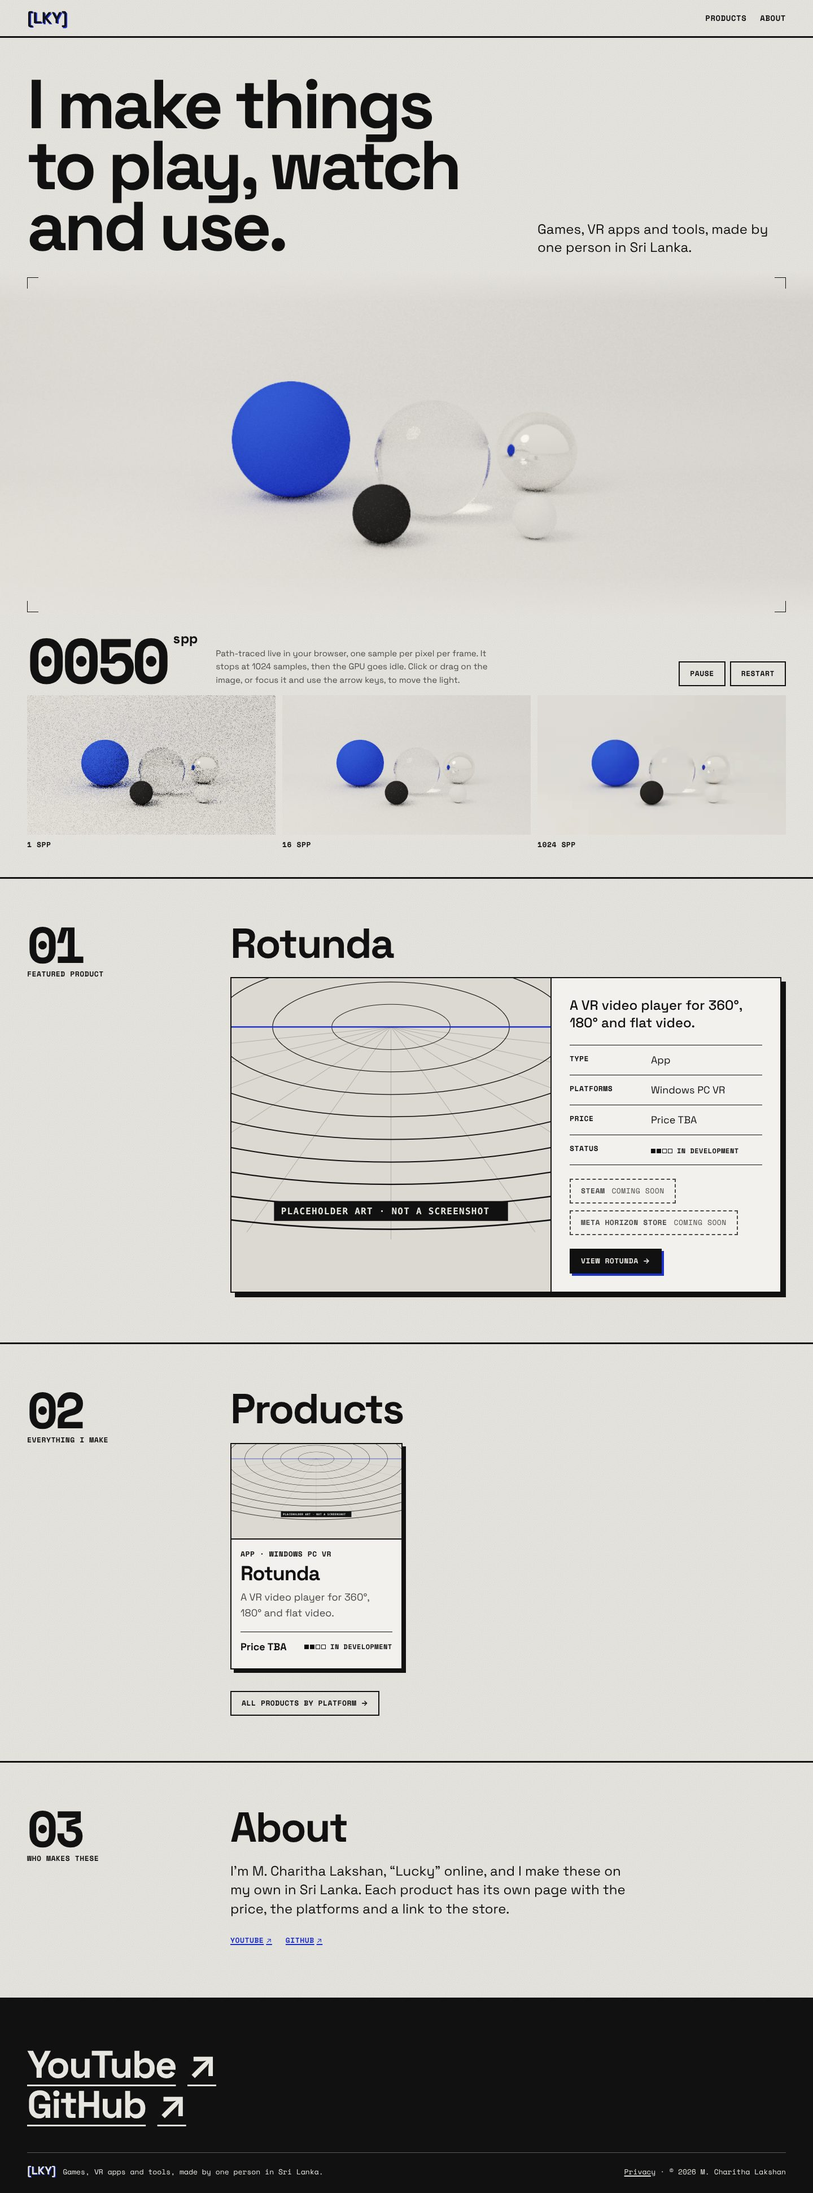
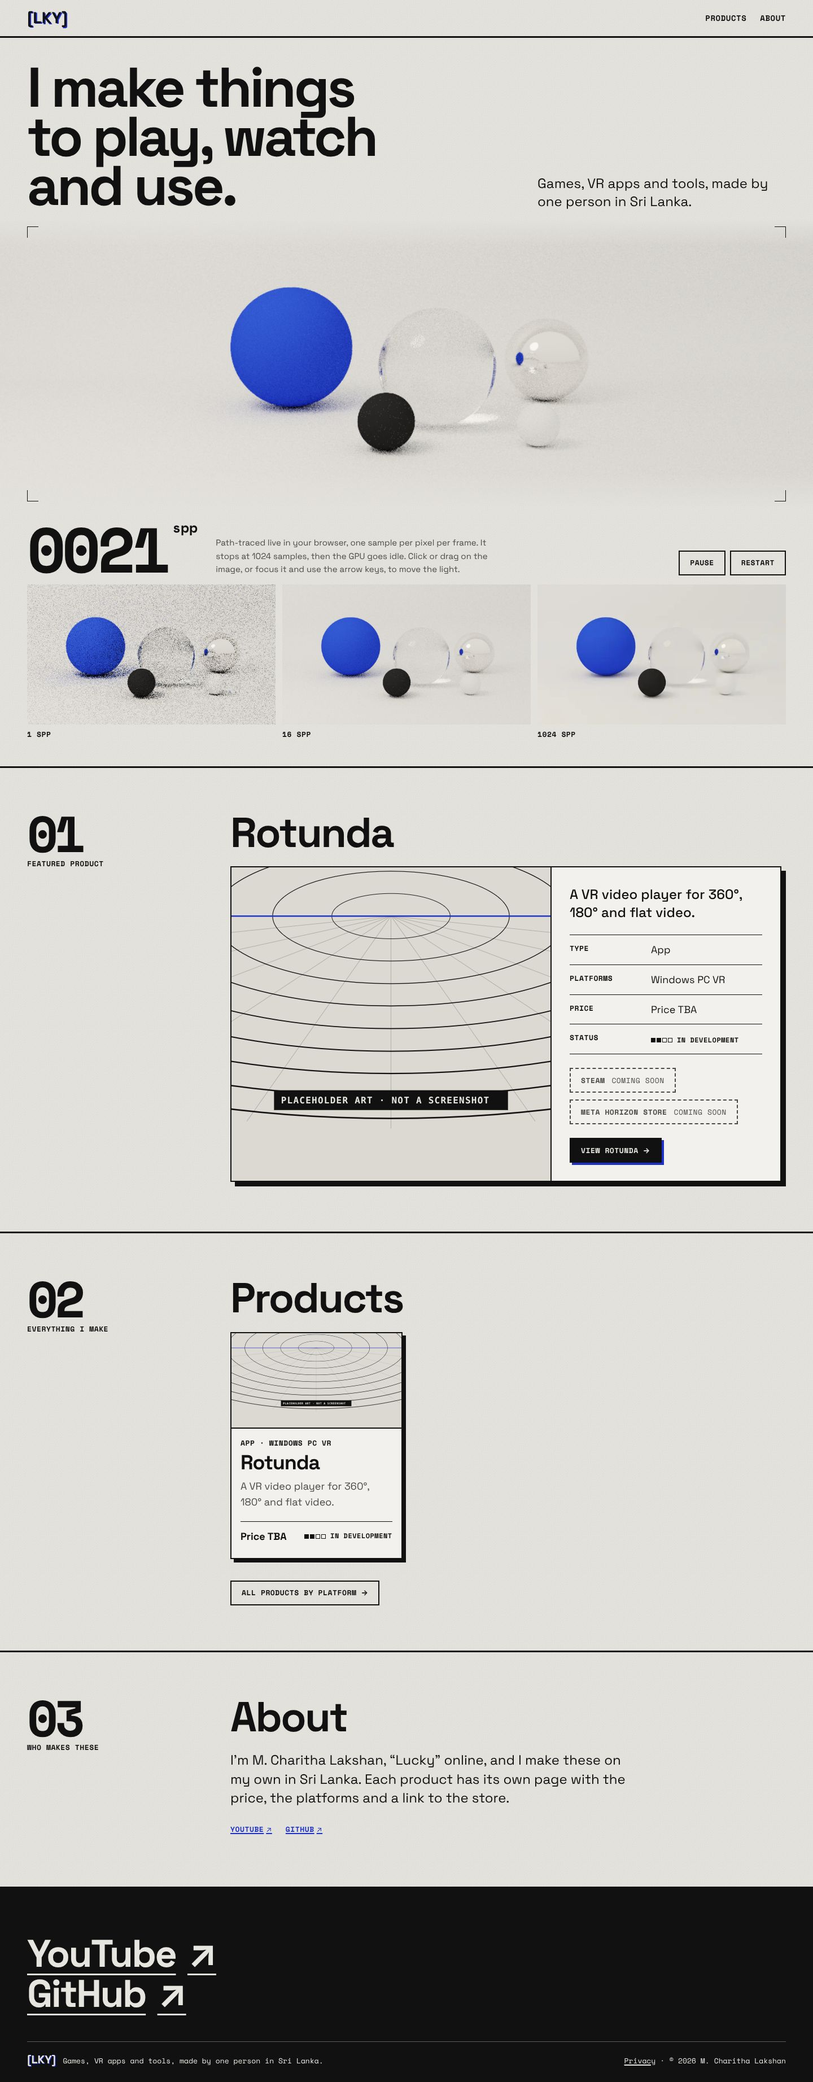
Fix: hero cropped on desktop (#3)
* fix: fit the home hero on the first screen on desktop

Size the hero from the viewport height (svh grid + subgrid), cap the
headline at 11svh, and frame the scene for any plate aspect with a
FOV and lens-shift fit. The wide still uses the same framing via
container units, so the live render takes over without a jump.

Claude-Session: https://claude.ai/code/session_01M5ZXwnCxA9Bamq5gUkcNpd

* docs: hero framing, render sizes and session notes

Claude-Session: https://claude.ai/code/session_01M5ZXwnCxA9Bamq5gUkcNpd

* chore: re-render hero strip frames at 16:9 with the new framing

Claude-Session: https://claude.ai/code/session_01M5ZXwnCxA9Bamq5gUkcNpd

* chore: re-render wide hero still and social image with the new framing; refresh home screenshots

Claude-Session: https://claude.ai/code/session_01M5ZXwnCxA9Bamq5gUkcNpd

---------

diff --git a/src/scripts/path-tracer.ts b/src/scripts/path-tracer.ts
@@ -9,6 +9,14 @@
  * live hero and its fallback always match.
  */
 
+export const SPHERES: readonly (readonly [number, number, number, number])[] = [
+  [-1.15, 0.58, -0.55, 0.58], // matte cobalt
+  [0.22, 0.5, 0.25, 0.5], // glass
+  [1.38, 0.42, -0.85, 0.42], // chrome
+  [-0.18, 0.21, 1.05, 0.21], // matte black
+  [0.95, 0.16, 0.95, 0.16], // matte white
+];
+
 const VS = `#version 300 es
 void main() {
   vec2 p = vec2(float((gl_VertexID << 1) & 2), float(gl_VertexID & 2));
@@ -22,7 +30,9 @@ uniform vec2 uRes;
 uniform int uFrame;
 uniform vec3 uLight;
 uniform vec3 uCam;
-uniform float uFov;
+uniform vec3 uTarget;
+uniform float uHalf;
+uniform vec2 uShift;
 out vec4 o;
 
 const float PI = 3.14159265;
@@ -30,13 +40,8 @@ uint st;
 uint pcg() { st = st * 747796405u + 2891336453u; uint w = ((st >> ((st >> 28u) + 4u)) ^ st) * 277803737u; return (w >> 22u) ^ w; }
 float rnd() { return float(pcg()) / 4294967296.0; }
 
-const int NS = 5;
-const vec4 SPH[NS] = vec4[NS](
-  vec4(-1.15, 0.58, -0.55, 0.58),   // matte cobalt
-  vec4( 0.22, 0.50,  0.25, 0.50),   // glass
-  vec4( 1.38, 0.42, -0.85, 0.42),   // chrome
-  vec4(-0.18, 0.21,  1.05, 0.21),   // matte black
-  vec4( 0.95, 0.16,  0.95, 0.16));  // matte white
+const int NS = ${SPHERES.length};
+const vec4 SPH[NS] = vec4[NS](${SPHERES.map((s) => `vec4(${s.map((v) => v.toFixed(2)).join(', ')})`).join(', ')});
 const float LR = 1.1;
 const vec3 LE = vec3(9.0, 8.6, 8.0);
 
@@ -117,9 +122,10 @@ vec3 trace(vec3 ro, vec3 rd) {
 void main() {
   st = uint(gl_FragCoord.x) * 1973u + uint(gl_FragCoord.y) * 9277u + uint(uFrame) * 26699u | 1u; pcg();
   vec2 jit = vec2(rnd(), rnd());
-  vec2 uv = (gl_FragCoord.xy - 0.5 + jit - 0.5 * uRes) / uRes.y;
-  vec3 ta = vec3(0.0, 0.55, -0.35), ww = normalize(ta - uCam), uu = normalize(cross(ww, vec3(0, 1, 0))), vv = cross(uu, ww);
-  vec3 rd = normalize(uu * uv.x + vv * uv.y + ww * (1.0 / tan(uFov * 0.5) * 0.5));
+  // Image plane at distance 1: uHalf is the half-height, uShift the lens shift (both in tangent units).
+  vec2 uv = (gl_FragCoord.xy - 0.5 + jit - 0.5 * uRes) / uRes.y * 2.0 * uHalf + uShift;
+  vec3 ww = normalize(uTarget - uCam), uu = normalize(cross(ww, vec3(0, 1, 0))), vv = cross(uu, ww);
+  vec3 rd = normalize(uu * uv.x + vv * uv.y + ww);
   vec3 c = trace(uCam, rd);
   vec3 prev = texelFetch(uPrev, ivec2(gl_FragCoord.xy), 0).rgb;
   o = vec4(mix(prev, c, 1.0 / float(uFrame + 1)), 1.0);
@@ -139,12 +145,77 @@ void main() {
 
 export const DEFAULT_LIGHT: [number, number, number] = [-2.6, 4.4, 2.2];
 
-/** Camera framing per aspect ratio, so the spheres fit on phones and wide screens alike. */
-export function cameraFor(aspect: number): { pos: [number, number, number]; fov: number } {
-  if (aspect < 1.2) return { pos: [0, 1.5, 7.2], fov: 0.7 };
-  if (aspect < 2) return { pos: [0, 1.3, 6.0], fov: 0.62 };
-  return { pos: [0, 1.15, 4.9], fov: 0.62 };
+type Vec3 = [number, number, number];
+
+export interface View {
+  eye: Vec3;
+  target: Vec3;
+  /** Half-height of the image plane at distance 1 (tan of half the vertical field of view). */
+  half: number;
+  /** Lens shift in the same units: moves the frame without changing the perspective. */
+  shift: [number, number];
 }
+
+const EYE: Vec3 = [0, 1.25, 5.6];
+const TARGET: Vec3 = [0, 0.45, -0.2];
+/** Share of the frame the spheres may fill, so they stay clear of the soft top and bottom edges. */
+const SAFE = { x: 0.88, y: 0.66 };
+/** Each sphere is padded by this factor so its contact shadow stays in frame too. */
+const PAD = 1.3;
+
+const sub = (a: Vec3, b: Vec3): Vec3 => [a[0] - b[0], a[1] - b[1], a[2] - b[2]];
+const dot = (a: Vec3, b: Vec3) => a[0] * b[0] + a[1] * b[1] + a[2] * b[2];
+const cross = (a: Vec3, b: Vec3): Vec3 => [a[1] * b[2] - a[2] * b[1], a[2] * b[0] - a[0] * b[2], a[0] * b[1] - a[1] * b[0]];
+const norm = (a: Vec3): Vec3 => {
+  const l = Math.hypot(...a);
+  return [a[0] / l, a[1] / l, a[2] / l];
+};
+
+/**
+ * The box the padded spheres project to on the image plane of the fixed camera (tangent units):
+ * centre (cx, cy) and half-size (hx, hy). Each sphere's silhouette is bounded exactly per axis.
+ */
+function sceneBox() {
+  const ww = norm(sub(TARGET, EYE)), uu = norm(cross(ww, [0, 1, 0])), vv = cross(uu, ww);
+  let x0 = Infinity, x1 = -Infinity, y0 = Infinity, y1 = -Infinity;
+  for (const [x, y, z, r] of SPHERES) {
+    const d = sub([x, y, z], EYE), r2 = r * PAD;
+    const cz = dot(d, ww);
+    for (const [c, axis] of [[dot(d, uu), 0], [dot(d, vv), 1]] as const) {
+      const a = Math.atan2(c, cz), s = Math.asin(r2 / Math.hypot(c, cz));
+      const lo = Math.tan(a - s), hi = Math.tan(a + s);
+      if (axis === 0) (x0 = Math.min(x0, lo)), (x1 = Math.max(x1, hi));
+      else (y0 = Math.min(y0, lo)), (y1 = Math.max(y1, hi));
+    }
+  }
+  return { cx: (x0 + x1) / 2, cy: (y0 + y1) / 2, hx: (x1 - x0) / 2, hy: (y1 - y0) / 2 };
+}
+
+export const SCENE_BOX = sceneBox();
+
+/**
+ * Framing for a frame of the given aspect ratio (width / height). From 1:1 up, the fixed camera
+ * zooms (field of view) and shifts its lens so every sphere and its shadow fits in the safe area,
+ * whatever the shape of the frame. Any such view is an exact crop of any other, so a still rendered
+ * at STILL can be scaled with CSS to match the live render (see PathTracer.astro).
+ * Portrait frames (phones) keep their original, fixed framing.
+ */
+export function viewFor(aspect: number): View {
+  if (aspect < 1) return { eye: [0, 1.5, 7.2], target: [0, 0.55, -0.35], half: Math.tan(0.35), shift: [0, 0] };
+  const { cx, cy, hx, hy } = SCENE_BOX;
+  return { eye: EYE, target: TARGET, half: Math.max(hy / SAFE.y, hx / (SAFE.x * aspect)), shift: [cx, cy] };
+}
+
+/**
+ * The wide still: rendered at STILL.aspect with half-height STILL.half, so it still covers the frame
+ * for every aspect from 1.2 to 4.2. CSS sets its height to min(kh × frame height, kw × frame width).
+ */
+export const STILL = (() => {
+  const { hx, hy } = SCENE_BOX;
+  const half = Math.max(hy / SAFE.y, hx / (SAFE.x * 1.2));
+  const aspect = (4.2 * hy) / SAFE.y / half;
+  return { aspect, half, kh: (half * SAFE.y) / hy, kw: (half * SAFE.x) / hx };
+})();
 
 interface Target {
   tex: WebGLTexture;
@@ -165,7 +236,7 @@ export class PathTracer {
   private vao: WebGLVertexArrayObject;
   private targets: Target[] = [];
   private cur = 0;
-  private cam = cameraFor(16 / 9);
+  private view = viewFor(16 / 9);
   private u: Record<string, WebGLUniformLocation | null> = {};
 
   /** Returns null when WebGL2 or float render targets are missing, or a shader fails. */
@@ -209,7 +280,7 @@ export class PathTracer {
     };
     this.trace = link(TRACE);
     this.show = link(SHOW);
-    for (const n of ['uPrev', 'uRes', 'uFrame', 'uLight', 'uCam', 'uFov']) this.u[n] = gl.getUniformLocation(this.trace, n);
+    for (const n of ['uPrev', 'uRes', 'uFrame', 'uLight', 'uCam', 'uTarget', 'uHalf', 'uShift']) this.u[n] = gl.getUniformLocation(this.trace, n);
     this.u.uAcc = gl.getUniformLocation(this.show, 'uAcc');
     this.vao = gl.createVertexArray()!;
   }
@@ -222,7 +293,7 @@ export class PathTracer {
     const gl = this.gl;
     this.width = this.canvas.width = w;
     this.height = this.canvas.height = h;
-    this.cam = cameraFor(w / h);
+    this.view = viewFor(w / h);
     for (const t of this.targets) {
       gl.deleteTexture(t.tex);
       gl.deleteFramebuffer(t.fbo);
@@ -243,6 +314,12 @@ export class PathTracer {
     return true;
   }
 
+  /** Overrides the framing chosen by resize() (the offline still renderer uses STILL). */
+  setView(view: View) {
+    this.view = view;
+    this.reset();
+  }
+
   reset() {
     this.spp = 0;
   }
@@ -261,8 +338,10 @@ export class PathTracer {
     gl.uniform2f(this.u.uRes!, this.width, this.height);
     gl.uniform1i(this.u.uFrame!, this.spp);
     gl.uniform3fv(this.u.uLight!, this.light);
-    gl.uniform3fv(this.u.uCam!, this.cam.pos);
-    gl.uniform1f(this.u.uFov!, this.cam.fov);
+    gl.uniform3fv(this.u.uCam!, this.view.eye);
+    gl.uniform3fv(this.u.uTarget!, this.view.target);
+    gl.uniform1f(this.u.uHalf!, this.view.half);
+    gl.uniform2fv(this.u.uShift!, this.view.shift);
     gl.drawArrays(gl.TRIANGLES, 0, 3);
     this.cur = 1 - this.cur;
     this.spp++;

diff --git a/src/scripts/path-tracer-hero.ts b/src/scripts/path-tracer-hero.ts
@@ -104,7 +104,7 @@ export function mountPathTracer(root: HTMLElement) {
       if (!ctx) return;
       const s = Math.max(tile.width / canvas.width, tile.height / canvas.height);
       const w = canvas.width * s, h = canvas.height * s;
-      ctx.drawImage(canvas, (tile.width - w) / 2, (tile.height - h) * 0.6, w, h);
+      ctx.drawImage(canvas, (tile.width - w) / 2, (tile.height - h) / 2, w, h);
       tile.hidden = false;
     }
 

diff --git a/Docs/Design/DesignSystem.md b/Docs/Design/DesignSystem.md
@@ -64,7 +64,7 @@ Paper text on the ink footer: 15.0:1.
 
 - Space scale `--space-1` … `--space-9`: 4, 8, 12, 16, 24, 32, 48, 64, 96 px.
 - `--gutter`: clamp(16px, 3.5vw, 48px). `--max-width`: 90rem.
-- Breakpoints (in media queries): 40rem (hero 16:9), 56rem (rail grid, hero text split, readout row), 64rem (hero 21:9, storefront two-column, featured card two-column).
+- Breakpoints (in media queries): 40rem (hero fills the first screen on landscape, else 16:9), 56rem (rail grid, hero text split, readout row), 64rem (hero 21:9, storefront two-column, featured card two-column).
 - `--rule`: 1px ink (table rows). `--rule-thick`: 3px ink (between page sections, under the header).
 - `--shadow-print`: `4px 4px 0` cobalt (primary buttons). Hover: `6px 6px 0` plus a −2px nudge.
 - `--shadow-card`: `6px 6px 0` ink (product cards; the featured card uses 8px). Hover: `8px 8px 0` cobalt plus a −2px nudge.
@@ -116,18 +116,19 @@ All components live in `src/components/`.
   - Scene: a white studio cove (floor, curved fillet, wall) with a matte cobalt, glass, chrome, black and white sphere under one spherical light.
   - Method: unidirectional path tracing with next-event estimation, up to 6 bounces and Russian roulette. A running average lives in a ping-pong RGBA32F (or RGBA16F) target, then ACES tone mapping.
   - Colour: the result is scaled so the cove equals `--color-paper`, and the plate's top and bottom fade into the page with a mask.
-- **Plate:** 4:5 below 40rem, 16:9 to 64rem, 21:9 above. Crop marks sit in the four corners.
+- **Plate:** 4:5 below 40rem. On landscape screens from 40rem (and wherever `subgrid` works) the first screen holds the header, the headline and the whole plate: the plate takes the height left under the headline (`100svh` minus header and text, at least 15rem), and the headline is capped at `11svh` so it stays near a third of the screen. The spp readout starts just below the fold. Elsewhere (portrait tablets, old browsers) the plate is 16:9 to 64rem and 21:9 above. Crop marks sit in the four corners.
+- **Framing:** from 1:1 up, one fixed camera zooms and shifts its lens so every sphere, padded for its contact shadow, fits a safe area (88% wide, 66% tall) of whatever shape the plate has (`viewFor()` in path-tracer.ts). Every such view is a crop of the same image, so the wide still is scaled with container units (`--still-kh`, `--still-kw`) to match the live render exactly. Portrait plates keep the fixed phone framing.
 - **Readout:** a giant mono spp counter, a one-paragraph caption, Pause and Restart buttons, and a three-tile strip (1, 16 and 1024 spp).
 - **Behaviour:**
   - **Before it runs,** and when it can't run (no WebGL2, no float targets, lost context), the plate shows a still frame rendered offline by the same code. The strip shows the matching 1, 16 and 1024 spp frames, so no tile is ever empty.
   - **Reduced motion:** the still frame stays. A "Render it live" button lets the visitor opt in.
   - **Start:** after first paint (`requestAnimationFrame`, then idle). The still hides, and the canvas renders one sample per pixel per frame.
-  - **Budget:** device pixel ratio capped at 2, pixel budget 0.55 MP.
+  - **Budget:** device pixel ratio capped at 2, pixel budget 0.55 MP. Every desktop plate hits the budget, so cost per frame and convergence speed are the same at 1920 px, 2560 px and beyond.
   - **Pausing:** pauses when the tab is hidden or the plate is off-screen.
   - **Stop:** at 1024 spp it stops completely; nothing runs until the light moves.
   - **Strip:** live frames are copied into the tiles at 1, 16 and 1024 spp. Moving the light resets them to the stills.
   - **Input:** click or drag (or arrow keys on the focused canvas) moves the light and restarts.
-- **Fallback images:** `src/assets/hero/{wide-1024,tall-1024,strip-1,strip-16}.jpg`, served as responsive WebP. Regenerate them with `node scripts/render-hero-images.mjs` (Docs/HowTo/RenderHeroImages.md). The same script writes `public/og-default.jpg`.
+- **Fallback images:** `src/assets/hero/{wide-1024,tall-1024,strip-1,strip-16,strip-1024}.jpg`, served as responsive WebP. Regenerate them with `node scripts/render-hero-images.mjs` (Docs/HowTo/RenderHeroImages.md). The same script writes `public/og-default.jpg`.
 
 ## Placeholder art
 

diff --git a/ClaudeMemory/CurrentState.md b/ClaudeMemory/CurrentState.md
@@ -1,6 +1,6 @@
 # Current State
 
-_Rewritten at the end of every session. Last: 2026-10-08, final design (product showcase)._
+_Rewritten at the end of every session. Last: 2026-10-08, hero fits the first screen on desktop._
 
 ## What works
 
@@ -9,12 +9,14 @@ _Rewritten at the end of every session. Last: 2026-10-08, final design (product 
 - **Path-traced hero:** `src/components/PathTracer.astro` with `src/scripts/path-tracer.ts` and `path-tracer-hero.ts`.
   - Offline still frames (same renderer) for first paint, no WebGL2, no JS and reduced motion.
   - Starts after first paint and pauses off-screen or when the tab is hidden.
-  - DPR is capped at 2, with a 0.55 MP pixel budget; it goes idle at 1024 spp.
+  - DPR is capped at 2, with a 0.55 MP pixel budget (every desktop plate hits it, so speed is the same at 1920 px and up); it goes idle at 1024 spp.
+  - **Fits the first screen** on landscape screens ≥40rem: header, headline (capped at 11svh), tagline and the whole render; the spp row starts below the fold. Grid + subgrid in `index.astro` / `PathTracer.astro`. Portrait tablets and phones are unchanged in layout.
+  - **Framing:** `viewFor(aspect)` zooms and lens-shifts one fixed camera so every sphere and shadow fits any plate shape. The wide still uses the `STILL` view and CSS container units, so it matches the live render to the pixel (measured < 1 px). Phones keep the old fixed framing and still.
   - The 1/16/1024 strip is never empty.
 - **Content model:** `price`, `pricingModel`, `plannedStores`, `primaryStore`. `storeLinks` takes live URLs only. Store button verbs follow status and pricing. JSON-LD `Offer` appears only when the price is known.
 - **Brand:** single brand file `src/config/site.ts` (name, headline, tagline, owner, email, portfolioUrl, socials). The brand-swap test passed again.
 - **Assets:** self-hosted Space Grotesk and Space Mono (55 KB total). The design lab is deleted.
-- **Screenshots** of every page (1440 and 390 px): `Docs/Design/Screenshots/` (the `template-*` files show the draft sample product published temporarily, to show live store buttons, a price, a trailer and a privacy page).
+- **Screenshots** of every page (home re-shot after the hero fix) (1440 and 390 px): `Docs/Design/Screenshots/` (the `template-*` files show the draft sample product published temporarily, to show live store buttons, a price, a trailer and a privacy page).
 
 ## What's next
 

diff --git a/ClaudeMemory/SessionLog.md b/ClaudeMemory/SessionLog.md
@@ -119,3 +119,14 @@ Append one entry per session. Newest last.
   - **Copy:** the built HTML has no words glued to links. This fixed three missing spaces from JSX line breaks (Privacy, About, product privacy).
   - **Contrast:** every text pair computed: ink 15.0, ink-2 7.1, cobalt 7.1 on paper; 16.7, 7.9, 8.0 on card; paper on ink 15.0, `#aab3ff` on ink 9.5.
   - **Hero stills:** rendered in SwiftShader in 18 min (wide) and 13 min (tall). Stored as JPEG q93 (about 310 KB in total); the social image is JPEG (32 KB).
+
+## 2026-10-08 — Fix: hero cropped on desktop
+
+- **Problem:** at 1920×950 the headline took three huge lines and the 21:9 plate started about 500–600 px down, so the spheres were cut off by the bottom of the window (every desktop size from 1280×720 to 2560×1440 overflowed).
+- **Changes:**
+  - `index.astro`: on landscape screens ≥40rem (with `subgrid`), `.hero` is a grid `auto / minmax(15rem, 1fr) / auto`; a `::before` spacer spanning rows 1–2 is `100svh − header` tall, so the stage row gets exactly what the text leaves. Headline `clamp(2.75rem, min(1rem + 7.4vw, 11svh), 8.5rem)`; text padding uses svh too.
+  - `PathTracer.astro`: the figure takes rows 2–3 via subgrid (stage, then readout). The mask moves from the img to the `<picture>`; the wide still is sized with container units (`--still-kh/kw` from `STILL`) instead of `object-fit: cover`. Strip tiles use the new `strip-1024.jpg`.
+  - `path-tracer.ts`: spheres in one TS array (shader generated from it); `cameraFor` replaced by `viewFor` (fixed eye, FOV + lens shift fitted to each padded sphere's exact projection; portrait keeps the old phone camera); `STILL` framing; `setView()`. Shader takes `uTarget`, `uHalf`, `uShift`.
+  - `path-tracer-hero.ts`: live strip captures centred.
+  - Render script: strip at 800×450 incl. 1024 spp, wide at 2400×733 with `STILL`, og crop from the new wide. Tall still unchanged.
+- **Verification (headless Chromium):** 1280×720, 1366×768, 1440×900, 1536×864, 1920×950, 1920×1080, 2560×1440: stage bottom = viewport bottom, headline, tagline and all spheres visible: pass. 768×1024 and 390×844: nothing cut off (unchanged layout): pass. Live vs still cobalt-sphere centroid differs < 1 px at 1366, 1920, 2560 and 768. Canvas ≈ 0.55 MP at 1366, 1920 and 2560. `npm run check` 0/0/0, build without warnings.

diff --git a/ClaudeMemory/Decisions.md b/ClaudeMemory/Decisions.md
@@ -145,3 +145,8 @@ Newest last. Format: date — decision. Options considered. Reason.
 
 - **Decision:** Space Grotesk (variable 300–700, 22 KB) and Space Mono 400/700 (17 KB each), self-hosted latin WOFF2 with OFL licences. Archivo, JetBrains Mono and the blue-noise dither are removed. A dark "paper grain" tile replaces the dither. Favicon and touch icon are two drawn brackets in ink with a cobalt offset (no text). Placeholder art is redrawn in ink and cobalt on paper, with centred labels so crops keep them. `public/design-lab/` is deleted, and so are the exploration screenshots; Concepts.md stays as the record.
 - **Header:** no JavaScript menu toggle any more (three items fit at 360px).
+
+## 2026-10-08 — Hero fits the first screen; camera fits the scene
+
+- **Decision:** on landscape screens the hero plate fills the height left under the header and headline (100svh based), with the headline capped at 11svh. The camera no longer has three fixed framings: it zooms and lens-shifts so all spheres fit any aspect, and the still is scaled to the same framing with container units. Phones keep their framing. The spp readout may start below the fold.
+- **Reason:** Charitha: on desktop the render sat below the fold and the spheres were cropped.

diff --git a/Docs/HowTo/RenderHeroImages.md b/Docs/HowTo/RenderHeroImages.md
@@ -4,12 +4,13 @@ The home hero is a live path tracer. Before it starts, and when it can't run, th
 
 | File | Size | Used for |
 |---|---|---|
-| `wide-1024.jpg` | 1680×720, 1024 spp | Still frame at ≥40rem; third strip tile |
-| `tall-1024.jpg` | 864×1080, 1024 spp | Still frame below 40rem |
-| `strip-16.jpg` | 800×343, 16 spp | Second strip tile |
-| `strip-1.jpg` | 800×343, 1 spp | First strip tile |
+| `wide-1024.jpg` | 2400×733, 1024 spp | Still frame at ≥40rem. Rendered with the `STILL` framing (wider and taller than any plate needs) and scaled by CSS to match the live camera at any aspect from 1.2 to 4.2 |
+| `tall-1024.jpg` | 864×1080, 1024 spp | Still frame below 40rem (fixed phone framing) |
+| `strip-1024.jpg` | 800×450, 1024 spp | Third strip tile |
+| `strip-16.jpg` | 800×450, 16 spp | Second strip tile |
+| `strip-1.jpg` | 800×450, 1 spp | First strip tile |
 
-The same run also writes `public/og-default.jpg` (1200×630, no text).
+The same run also writes `public/og-default.jpg` (1200×630, the centre of the wide still, no text). `ONLY=strip,wide` or `ONLY=tall` renders a subset.
 
 Re-render them whenever you change the scene, the camera, the light or the tone mapping in `src/scripts/path-tracer.ts`:
 

diff --git a/Docs/Design/PageSpecs.md b/Docs/Design/PageSpecs.md
@@ -11,7 +11,7 @@ DESKTOP                                             MOBILE
 [LKY]                 PRODUCTS  ABOUT  (PORTFOLIO↗) [LKY]  PRODUCTS ABOUT
 ━━━━━━━━━━━━━━━━━━━━━━━━━━━━━━━━━━━━━━━━━━━━━━━━━   ━━━━━━━━━━━━━━━━━━━━━━
 HEADLINE (display h1, 8 col)     tagline (4 col)    HEADLINE (display h1)
-┌ crop marks ─────── path-traced plate 21:9 ────┐   tagline
+┌ crop marks ── plate: rest of the first screen ┐   tagline
 │               (still → live canvas)            │   ┌ plate 4:5 ┐
 └───────────────────────────────────────────────┘   └───────────┘
 0384 spp   caption (one paragraph)   [PAUSE][RESTART] 0384 spp

diff --git a/Docs/Architecture/Architecture.md b/Docs/Architecture/Architecture.md
@@ -24,7 +24,7 @@ src/
     product-privacy/<slug>.md  Optional per-product privacy policy
   assets/
     fonts/                     Space Grotesk (variable) + Space Mono 400/700 WOFF2 and OFL licences
-    hero/                      Path tracer stills: wide-1024 (21:9), tall-1024 (4:5), strip-1 and strip-16 (800px)
+    hero/                      Path tracer stills: wide-1024 (2400×733, STILL framing), tall-1024 (4:5), strip-1/16/1024 (800×450)
     products/<slug>/           Hero, screenshots (placeholders are placeholder-*.svg)
     paper-grain.png            Paper grain tile, inlined into CSS
   styles/tokens.css            @font-face + design tokens
